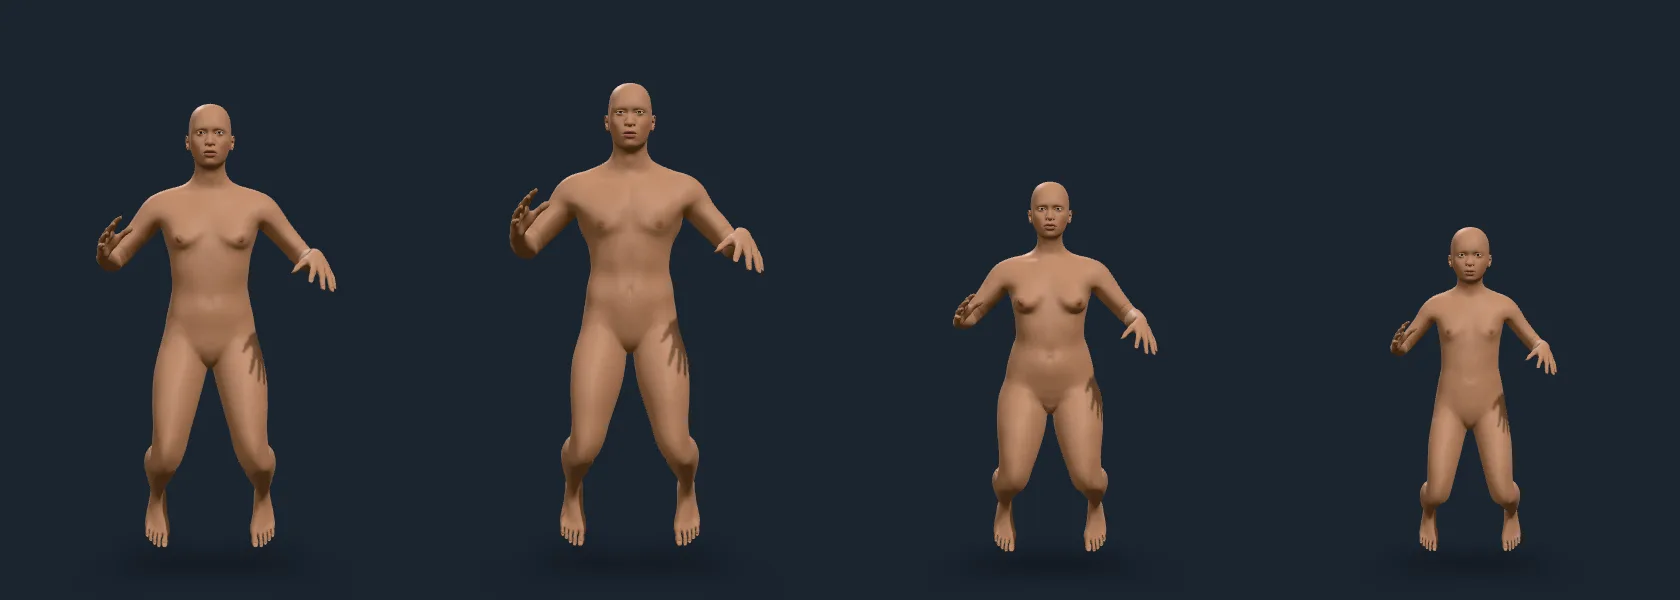
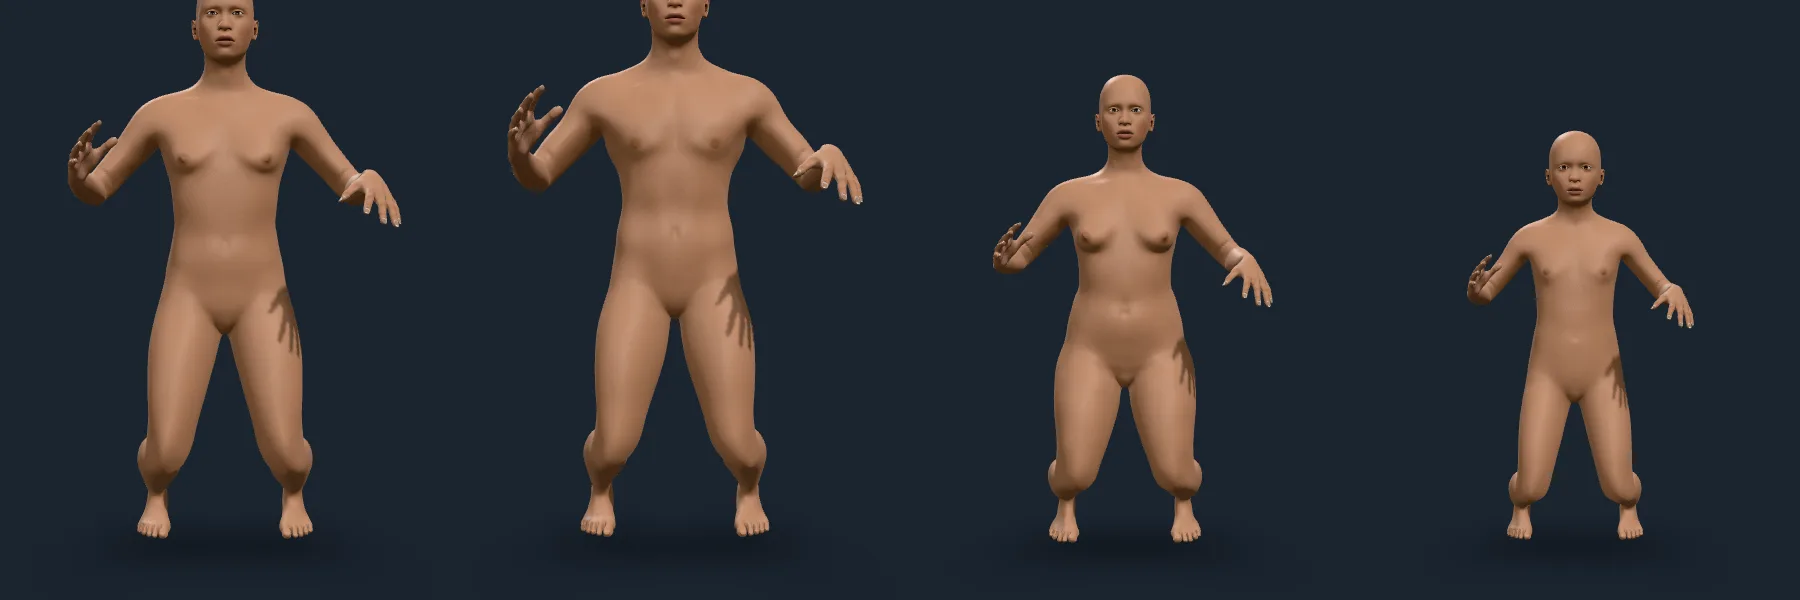
docs: replace the crease evidence with the sheets of the shipped creases
The old sheets showed the first design (a flexor and an extensor layer at
every joint, a flat depth, wrists). The new ones, read by the integrator, are
the elbow's crook and the back of the knee at the strain-derived depths, a
bent forearm seen end-on (the groove fades by its screen footprint), the
four bodies in the bent pose, and the feet of the bent figure standing on
their soles. The page records that the pale band at the wrist in the full
figure is lighting on the bent wrist's back, as the sheets with no crease
layer and with linear skinning everywhere showed.

Claude-Session: https://claude.ai/code/session_01CLSZiU5A8mgkLKiE81aZf5

diff --git a/docs/evidence/creases.md b/docs/evidence/creases.md
@@ -1,52 +1,64 @@
 # Joint creases
 
-Rendered on 2026-10-09 with `scripts/contact-sheet.mjs` against the playground,
-on the studio stage, at 2× pixel density, with the camera 0.3 to 0.5 m from the
-skin: the same figure and pose, once with the crease depth set to zero (left)
-and once as shipped (right). The poses are `bent` (elbows about 90°, knees about
-80°) and `tpose` (arms straight), authored for the check
-(`scripts/poses/bent.json`). The creases follow the pose's flexion signals
-(`flex.elbow.L` and so on); magnitudes and what is measured against what is
-art-directed are in `docs/ARCHITECTURE.md`, "Joint creases".
+Rendered on 2026-10-09 by the integrator's shared sheet pass against the
+playground, on the studio stage, at 2× pixel density. The poses are `bent`
+(elbows about 90°, knees about 80°, the ankles bent back to keep the soles
+level) and `tpose`, authored for the check (`scripts/poses/bent.json`). The
+creases follow the pose's flexion signals (`flex.elbow.L` and so on); how the
+fold's depth follows from the measured strain, and what is art-directed, are in
+`docs/ARCHITECTURE.md`, "Joint creases". Only the elbows and the knees have
+creases.
 
-## The crook of a bent joint
+## The crook of a bent elbow
 
-![The crook of the left elbow and the back of the left knee, without and with creases](./creases-flexor.webp)
+![The crook of a bent elbow, an average adult and a short full woman](./creases-elbow.webp)
 
-Top: the elbow's crook, seen from inside the bend. Without creases the skin is
-smooth up to the step where the weights hand over from the upper arm to the
-forearm; with them, two folds cross the crook. Bottom: the back of the knee,
-whose skin folds in several grooves as the shin comes up (the strain there is
-over 60 %, so the folds are the deepest of any joint). The grooves are narrow
-cuts in flat skin, not ripples: that is what the light catches.
+The inside of the bend, seen from inside it: the fold takes up the skin that the
+bend compresses (2.8 mm deep, from the 25 % measured strain). It is on the inside
+of the bend only, within about 63° either side of the way the joint folds.
 
-![The arm bent at the elbow, without and with creases](./creases-arm-front.webp)
+## The back of a bent knee
 
-The same bend from the front. The fold across the elbow reads as a skin fold
-and not a seam; the forearm and hand beyond it are unchanged.
+![The back of a bent knee, an average adult and a muscular man](./creases-knee.webp)
 
-## The outside of a bend has none
+Several grooves as the shin comes up (6.2 mm deep, from over 60 % strain): the
+deepest of any joint. The grooves are narrow cuts in flat skin, not ripples:
+that is what the light catches.
 
-A first version also wrinkled the outside of the bend (the kneecap's and the
-elbow's point's skin) while the joint was straight. It drew four deep rings
-round the straight knee, which read as a stack of bands, then a faint trace
-over the kneecap, and a pale ring round the wrist. The measured strain there is
-a stretch, which draws skin smooth, and nothing measured says how loose skin
-wrinkles, so those layers were dropped, not tuned (ARCHITECTURE.md).
+## Seen down a limb
+
+![The right arm of two bodies from the front, the forearm pointing at the camera](./creases-end-on.webp)
+
+A bent forearm points at the camera in a front view, so the elbow's crease,
+17 cm up the arm, is projected onto the forearm just above the hand. A groove is
+a thin line, so it fades by its screen footprint (it is gone by the time a
+period is three pixels): it shows as one fine line and not as a dotted ring.
 
 ## Body types
 
 ![A bent figure at four body types](./creases-bodies.webp)
 
 The `bent` pose on the average adult, a muscular man, a short full woman and a
-ten-year-old. Creases are close-up relief: at full-figure distance (above) they
-are finer than a pixel and fade out, so these figures show the posed geometry
-only. The dark streaks beside the hips are the fingers' shadows, not skin.
+ten-year-old. Creases are close-up relief: at full-figure distance they are
+finer than a pixel and fade out, so these figures show the posed geometry only.
+The pale band at the screen-right wrist of the first, third and fourth is
+lighting on the bent wrist's back: it is the same with no crease layer and with
+linear skinning everywhere (checked on sheets of both). The dark streaks beside
+the hips are the fingers' shadows, not skin.
 
-## What this does not show
+## The feet of a bent figure
 
-The wrists' creases are 2 across 6 cm of skin at a quarter of the knee's strain
-and show at no angle tried; they are in the layer stack and tested, but the
-wrist is the joint with least to see. Skin colour darkens and reddens at an
-extended elbow or knee (SKIN-STATES.md, A2); that is a colour term and not part
-of these detail layers.
+![The legs of the T-pose, the bent pose and the flexed pose at floor level](./bent-pose-feet.webp)
+
+A figure's lowest point is on the floor, and in `bent` the soles lie flat on the
+contact shadow like the T-pose's: the pose bends each ankle back 60° so the
+folded knees and raised hips do not leave the feet pointing down. (The flexed
+pose, the deep crouch on the right, is not part of this check.)
+
+## What is not here
+
+Wrists and the outside of each bend (the elbow's point, the kneecap) have no
+creases: what was drawn there read as a bracelet and as bands round the limb, and
+nothing measured says where or how deep loose skin wrinkles. Skin colour darkens
+and reddens at an extended elbow or knee (SKIN-STATES.md, A2); that is a colour
+term and not part of these detail layers.
